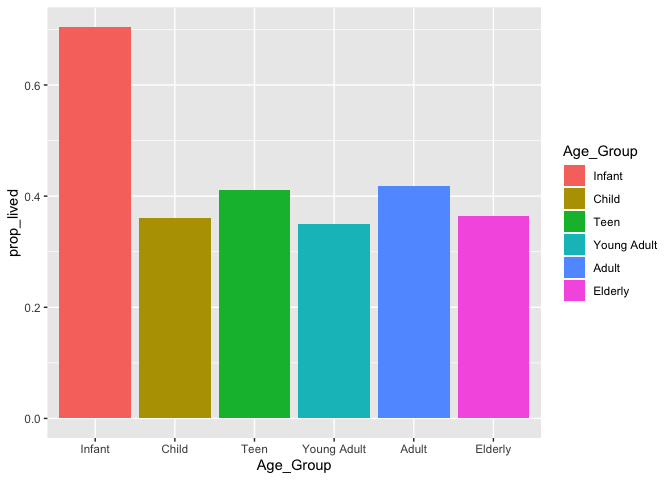
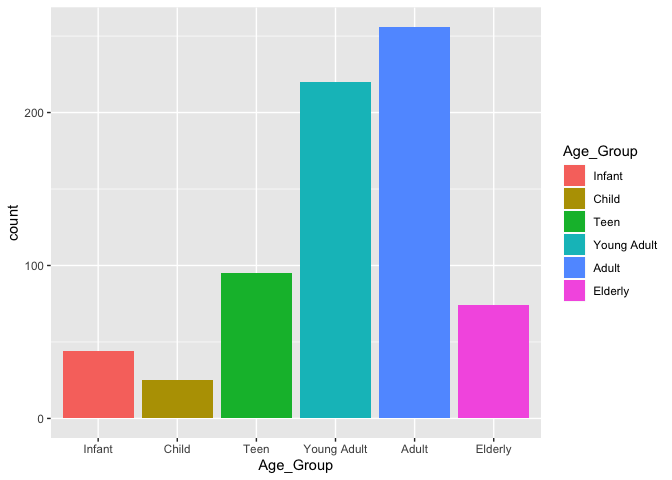
Start of feature engineering

diff --git a/Analysis.md b/Analysis.md
@@ -13,7 +13,7 @@ surviving due to those groups likely taking priority when filling the
 lifeboats. A thorough analysis will be conducted to test this
 hypothesis.
 
-## Data
+## Data and Feature Engineering
 
 ``` r
 glimpse(train_data)
@@ -44,7 +44,7 @@ train_data <- train_data %>%
 
 We quickly notice that the Cabin number of passengers in rarely present,
 so we will omit this variable from the analysis as it does not provide
-any useful information.
+any useful information for the prediction.
 
 ``` r
 ggplot(train_data) +
@@ -58,7 +58,26 @@ passengers that survived are, in fact, female.
 
 To properly examine age, it will be grouped as infant (0-5), child
 (6-12), teenager (13-19), young adult (20-29), adult (30-49), and
-elderly (50+). Passengers with unknown age will be ommitted.
+elderly (50+). Before we can group the passengers, we need to deal with
+the patients with no age recorded.
+
+``` r
+train_data %>%
+  mutate(Ageless = is.na(Age)) %>%
+  count(Ageless)
+```
+
+    ## # A tibble: 2 x 2
+    ##   Ageless     n
+    ##   <lgl>   <int>
+    ## 1 FALSE     714
+    ## 2 TRUE      177
+
+We see that there are 177 passengers that do not have a recorded age in
+the data set. In order to deal with this, we will use the other
+variables to find the most liekly age group for the passengers with no
+age and use the average value of that group to estimate the age. Because
+we are using age groups, the actual value is less important.
 
 ``` r
 train_data <- train_data %>%
@@ -71,7 +90,7 @@ ggplot(train_data) +
   geom_bar(aes(Age_Group, fill = Age_Group))
 ```
 
-![](Analysis_files/figure-gfm/unnamed-chunk-6-1.png)<!-- -->
+![](Analysis_files/figure-gfm/unnamed-chunk-7-1.png)<!-- -->
 
 A percentage of survival based on age group will be more informative.
 
@@ -84,7 +103,7 @@ ggplot(by_age) +
   geom_col(aes(Age_Group, prop_lived, fill = Age_Group))
 ```
 
-![](Analysis_files/figure-gfm/unnamed-chunk-7-1.png)<!-- -->
+![](Analysis_files/figure-gfm/unnamed-chunk-8-1.png)<!-- -->
 
 Now that we have a proportion of who lived by age group, we can see that
 it is true that young passengers did indeed have a greater chance of
